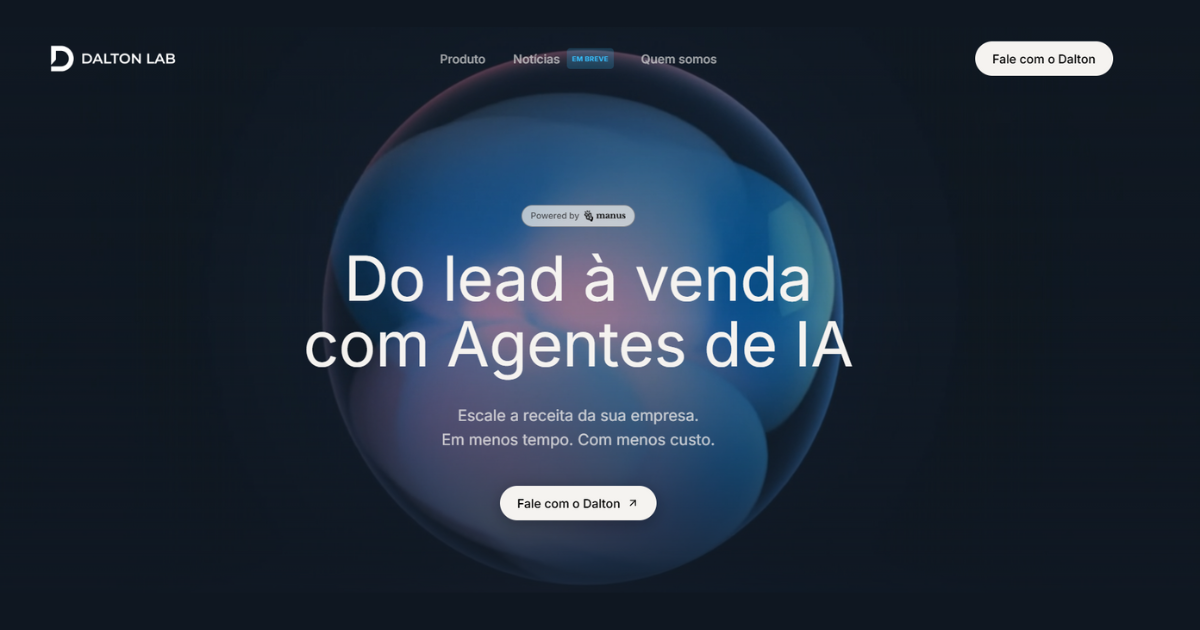
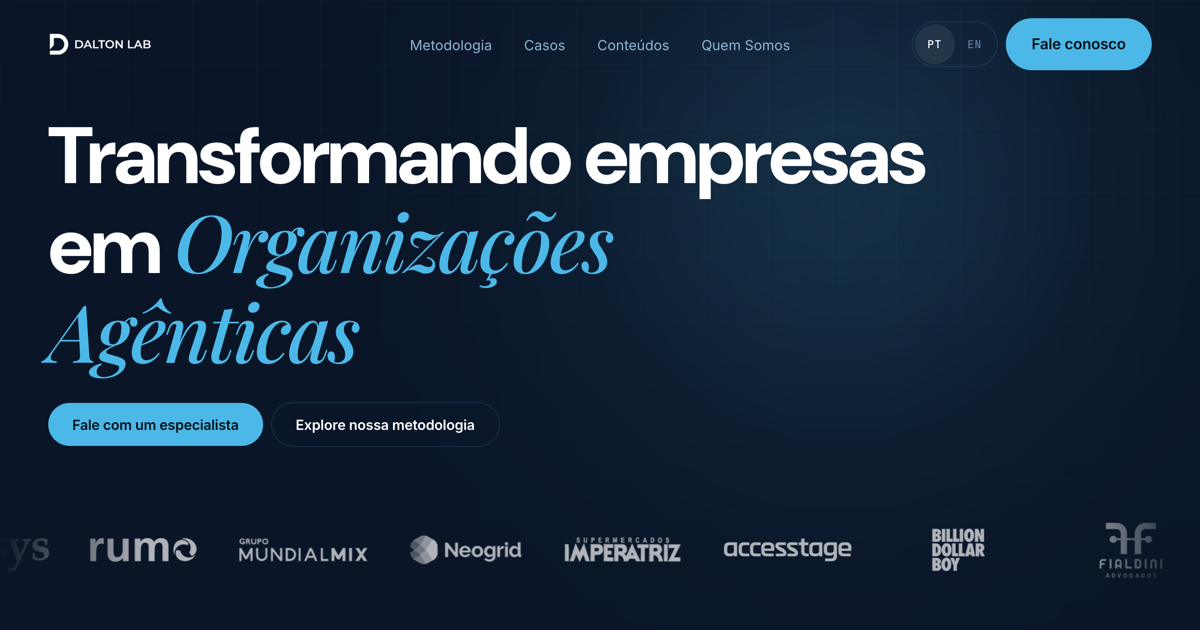
fix(og): atualiza imagem de preview do link para o hero atual
- Regera og-image.png com o hero atual do site (1200x630, retina)
- Aponta og:image e twitter:image para og-image.png
- Remove og-preview.png obsoleto (design antigo "saúde")

diff --git a/index.html b/index.html
@@ -74,7 +74,7 @@
       property="og:description"
       content="A primeira empresa do Brasil especializada em transformação agêntica. Construímos organizações agênticas onde humanos e agentes trabalham em sintonia. Operações mais eficientes, times em alta performance e ROI concreto."
     />
-    <meta property="og:image" content="https://daltonlab.ai/og-preview.png" />
+    <meta property="og:image" content="https://daltonlab.ai/og-image.png" />
     <meta property="og:image:type" content="image/png" />
     <meta property="og:image:width" content="1200" />
     <meta property="og:image:height" content="630" />
@@ -90,7 +90,7 @@
       name="twitter:description"
       content="A primeira empresa do Brasil especializada em transformação agêntica. Construímos organizações agênticas onde humanos e agentes trabalham em sintonia. Operações mais eficientes, times em alta performance e ROI concreto."
     />
-    <meta name="twitter:image" content="https://daltonlab.ai/og-preview.png" />
+    <meta name="twitter:image" content="https://daltonlab.ai/og-image.png" />
     <meta name="twitter:image:alt" content="Dalton Lab – Transforme sua Empresa em uma Organização Agêntica" />
 
     <!-- Favicon - Multiple formats for compatibility -->
